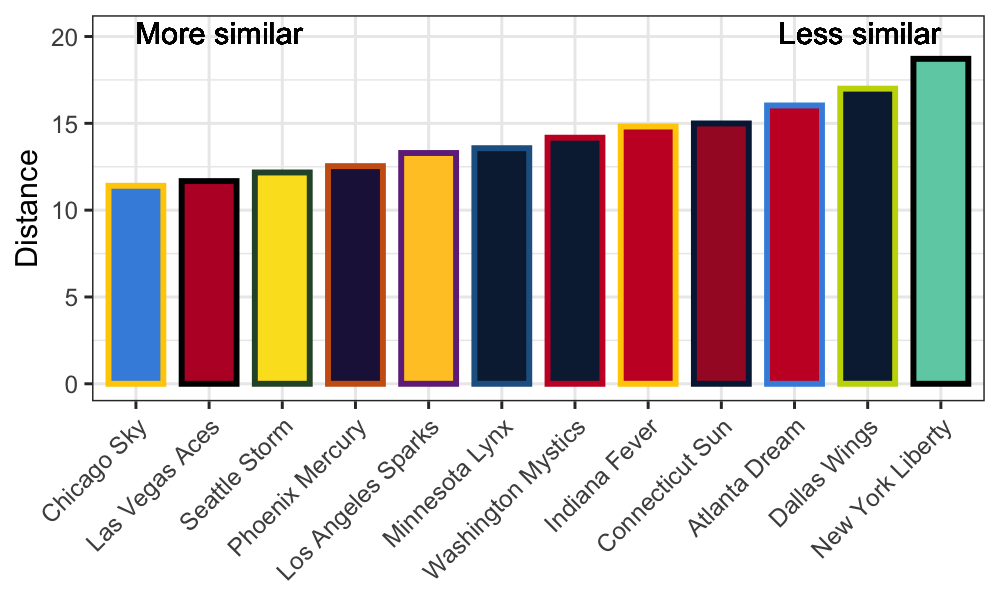
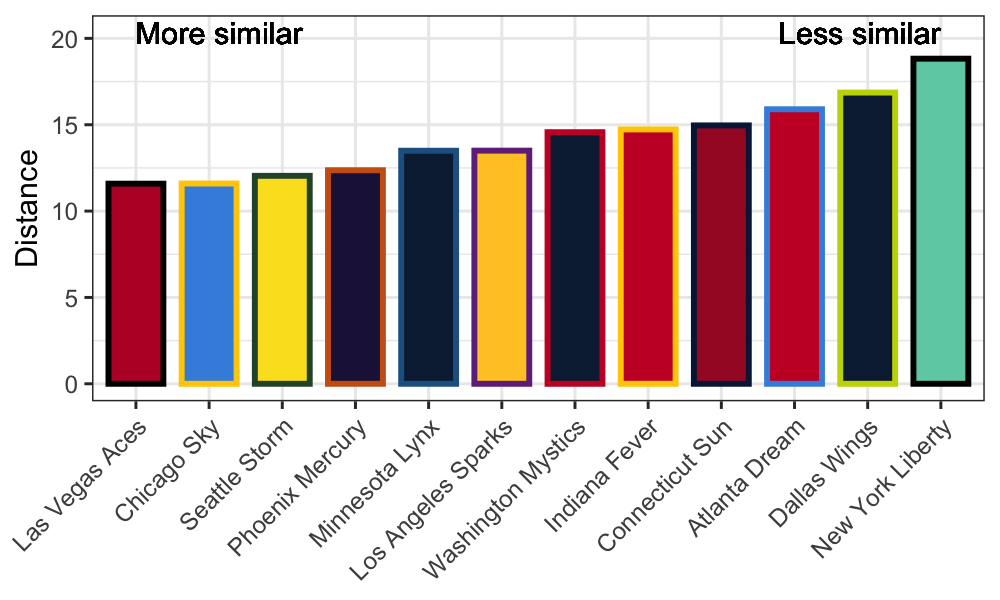
fixed typos

diff --git a/_posts/2020-08-25-nba-wnba-comparision.md b/_posts/2020-08-25-nba-wnba-comparision.md
@@ -4,14 +4,14 @@ date: 2020-08-10
 permalink: /posts/2020/08/nba-wnba-comparison/
 ---
 
-Do you like the offensive rebounding? How about the midrange game? Are you a fan of the Rockets? Or wish you could watch the 2014-15 Warriors again? Well, I'm here to tell you that you might enjoy watching the WNBA and help find your potential new favorite team! 
+Do you like offensive rebounding? How about the midrange game? Well, I'm here to tell you that you might enjoy watching the WNBA and help find your potential new favorite team based on your NBA preferences! 
  
-In addition to matching NBA teams with comparable teams in the WNBA, I compare the leagues in a number of statistics throughout the last 10 seasons.   To address these questions I created a Shiny app hosted [**here**](https://zoevernon.shinyapps.io/nba_wnba_comparison/).  In the app you can compare any team from 2010-2020 in both the NBA and WNBA for a number of different statistical categories as well as see the change over time in each league.  
+In addition to matching NBA teams with comparable teams in the WNBA, I compare the leagues in a number of statistics throughout the last 10 seasons.   To address these questions I created a Shiny app hosted [***here***](https://zoevernon.shinyapps.io/nba_wnba_comparison/).  In the app you can compare any team from 2010-2020 in both the NBA and WNBA for a number of different statistical categories as well as see the change over time in each league.  
  
 I present some of the interesting observations I found from using the app in this post, but encourage you to play with it on your own!  
 
 
-## Differences between the leagues 
+## Statistical differences between the leagues 
 First, I wanted to figure out how the WNBA differs from the NBA across the last 10 seasons.  The two leagues have largely followed similar trajectories (i.e. more threes and less offensive rebounds) but there are many differences between them, some surprising and others more obvious. 
  
 After watching a couple WNBA games one of the most apparent distinctions is the shot distribution.  Most WNBA teams seem to take far more midrange shots than is customary in the present day NBA, and that is exactly what we see in the data.  Given that WNBA games are shorter than the NBA, we compare the shot distributions between the two leagues by looking at the number of shot attempts from a given location per possession.  This allows us to look at differences without needing to adjust for time or pace.  
@@ -19,7 +19,7 @@ After watching a couple WNBA games one of the most apparent distinctions is the 
 Using data from [stats.nba.com](stats.nba.com) and [stats.wnba.com](stats.wnba.com), we see in the figure below that every WNBA team in the 2020 season took more midrange shots (5 - 19 feet) than the average NBA team in the 2019-20 season.  The New York Liberty took by far the least in the mid range while the Las Vegas Aces, with A'ja Wilson and their interior dominance, took over 0.4 shots per possession from these distances.  In the NBA, San Antonio is the only team that took more than 0.3 shots per possession of their shots from 5 - 19 feet, and the Houston Rockets took only 0.15.  
 
 ![Midrange distributions](/figures/midrange_dist.png)
-Note, an interactive version of this plot where you can see where all teams fall on the distribution is in the Shinny app.  For purposes of formatting, I made a static version for this post.  
+Note, an interactive version of this plot that allows the user to see where all teams fall on the distribution is in the Shinny app.  For purposes of formatting, I made a static version for this post.  
 
  <!---<iframe width="800" height="500" frameborder="0" scrolling="no" src="//plotly.com/~zo3v3rnon/1.embed"></iframe>--->
 
@@ -51,10 +51,10 @@ This increase in midrange shot taking is coupled with fewer shot attempts, in th
 <!--- <iframe width="800" height="500" frameborder="0" scrolling="no" src="//plotly.com/~zo3v3rnon/15.embed"></iframe>  --->
 
 ## Which WNBA team should I root for?
-The [app](https://zoevernon.shinyapps.io/nba_wnba_comparison/) can help you find the best fit in the WNBA based on the statistics that you care about for your favorite NBA team.  Note that as we see above the leagues are quite different, so although comparing them is not perfect, it's still fun!   Below are a few examples.  
+The [app](https://zoevernon.shinyapps.io/nba_wnba_comparison/) can help you find the best fit in the WNBA based on your favorite NBA team, and the statistical categories you care about.  We saw in the previous section that the leagues are quite different, so the comparison is not perfect, but it's still fun!   Below are a few examples.  
 
 ### The Milwaukee Bucks
-Let's say I want to see which WNBA teams play most like the Bucks across all the statistical categories we have available.   Then we would see that the Chicago Sky are most similar, followed by the Las Vegas Aces and the Seattle Storm.   In general, the better WNBA teams are more similar to the Bucks and the worse teams are less similar.     
+Let's say I want to see which WNBA teams play most like the Bucks across all the statistical categories included in this analysis.   Then we find that the Aces are most similar, followed by the Chicago Sky (who just had two key players leave the bubble, Diamond DeShields and Azurá Stevens) and the Seattle Storm.  In general, the better WNBA teams are more similar to the Bucks and the worse teams are less similar.     
 
 ![Bucks comparision](/figures/bucks_all.png)
 
@@ -63,10 +63,10 @@ If your favorite thing to do is watch an offense predicated around the three poi
 
 ![Rockets comparision](/figures/rockets_fga.png)
 
-However, be warned about the Liberty, because although they take a lot of threes, they don't shoot a high percentage.  In fact, if we include FG% statistics in addition to the FGA stats, we see that the Liberty are one of the least similar teams to the Rockets... try that for yourself in the app if you want to see the change.  
+However, be warned about the Liberty, because although they take a lot of threes, they don't shoot a high percentage.  In fact, if we include FG% statistics in addition to the FGA stats, we see that the Liberty are one of the least similar teams to the Rockets... try that for yourself if you want to see the change.  
 
 ### The 2014-15 Warriors
-As a final example, let's say that you just loved watching the Warriors offense on the way to the first title in their recent run, because I mean who didn't? In that case tune in the Storm, Sky, or Sparks.  
+As a final example, let's say that you just loved watching the Warriors offense on the way to the first title in their recent run, because I mean who didn't? In that case try to catch the Storm, Sky, or Sparks.  
 
 ![Warriors comparision](/figures/warriors_off.png)
 
